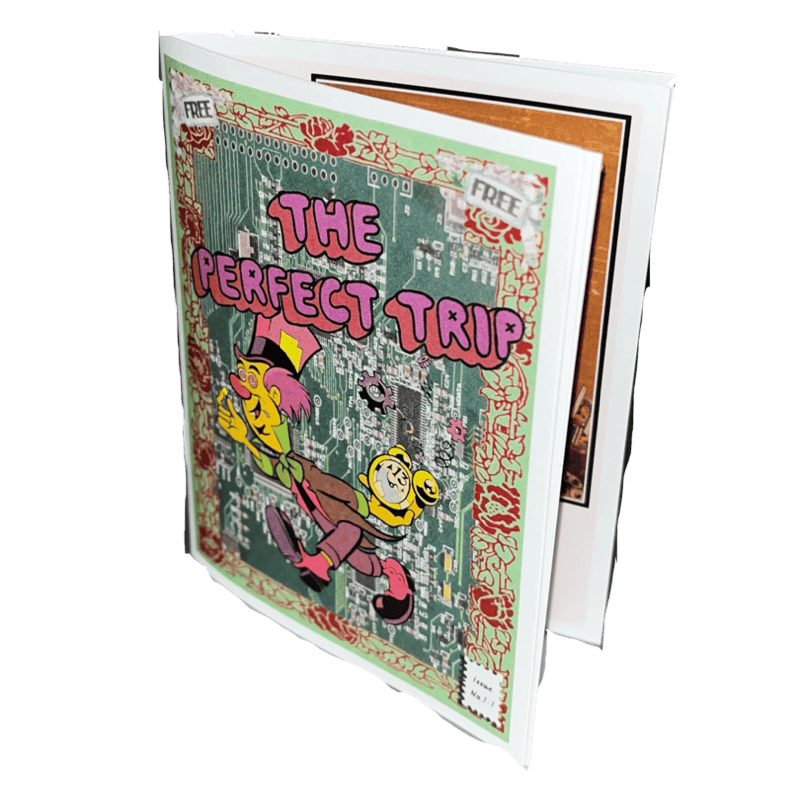
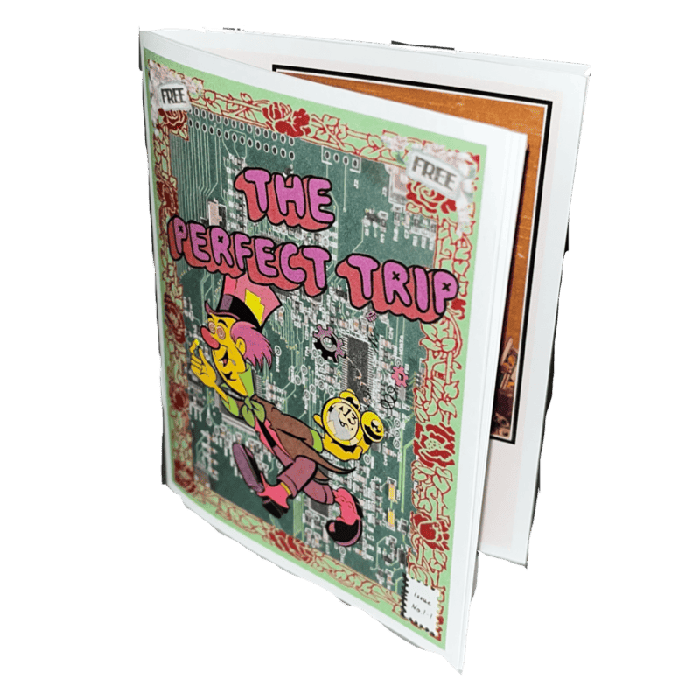
perf: compress merch images (incl Bundle); SW v363

diff --git a/sw.js b/sw.js
@@ -4,7 +4,7 @@
 // UPDATE CACHE_VERSION DATE ON EVERY PUSH
 // ════════════════════════════════════════════════════════════════
 
-var CACHE_NAME = 'jestamang-v362';
+var CACHE_NAME = 'jestamang-v363';
 var BADGE      = '/assets/icons/icon-192.png';
 
 var PRECACHE_URLS = [
